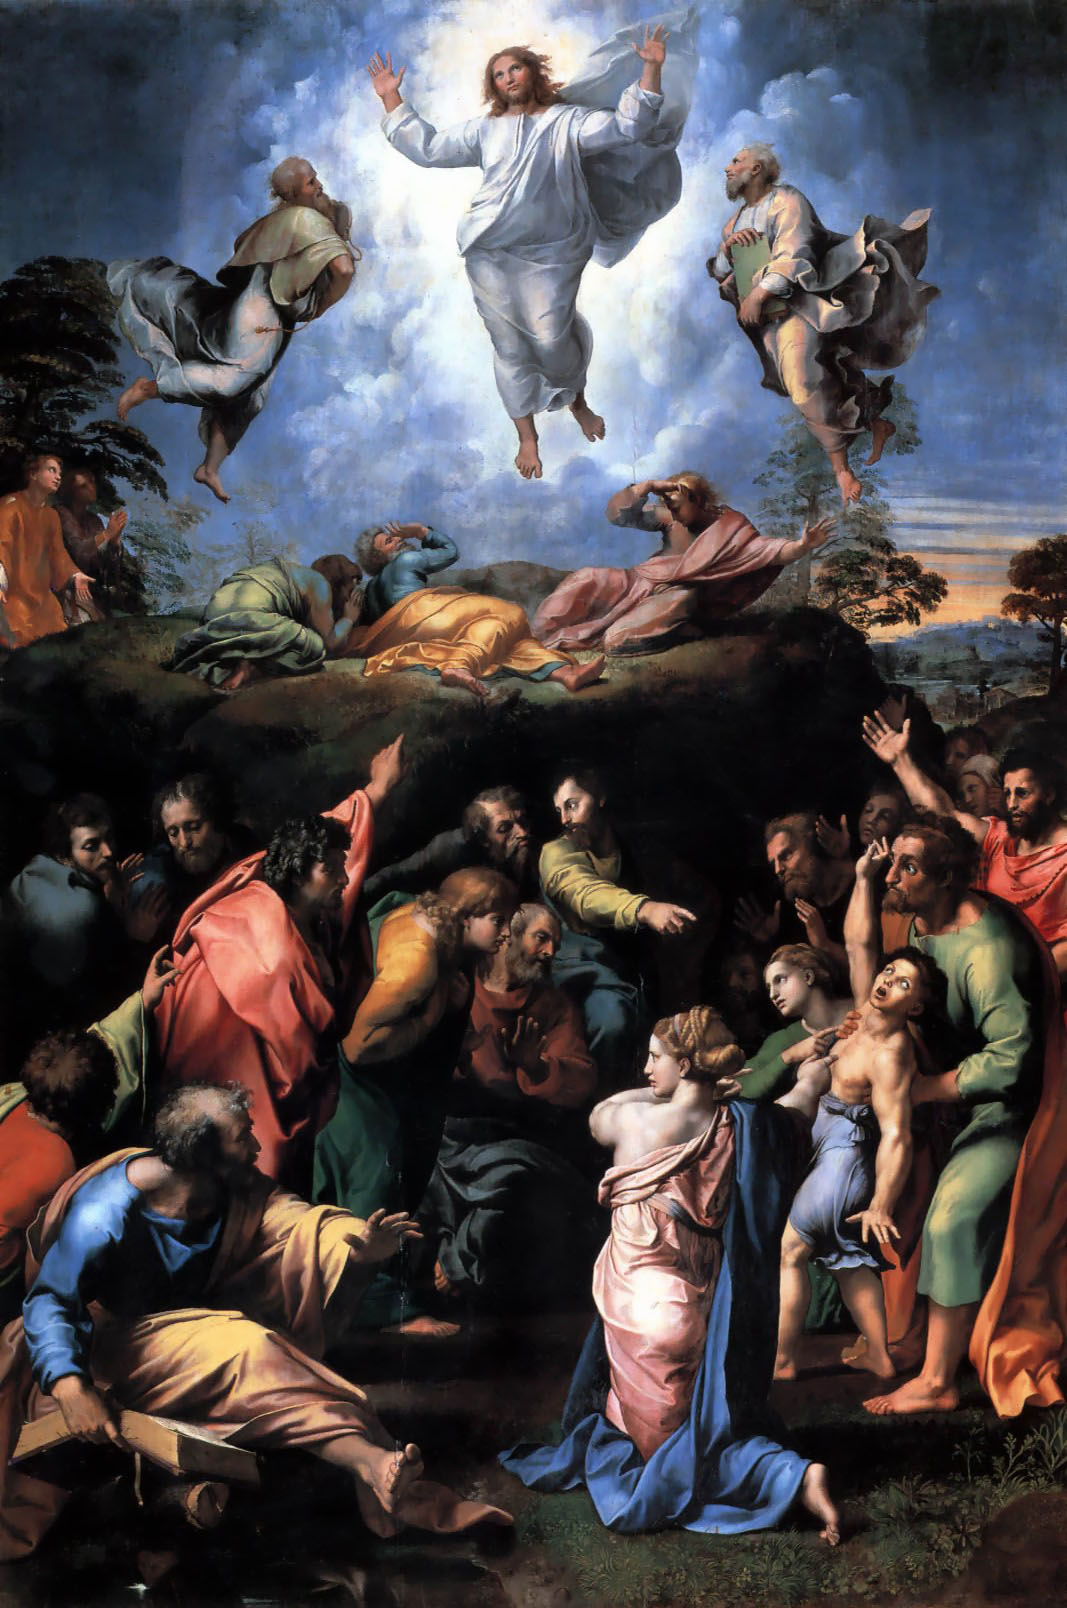
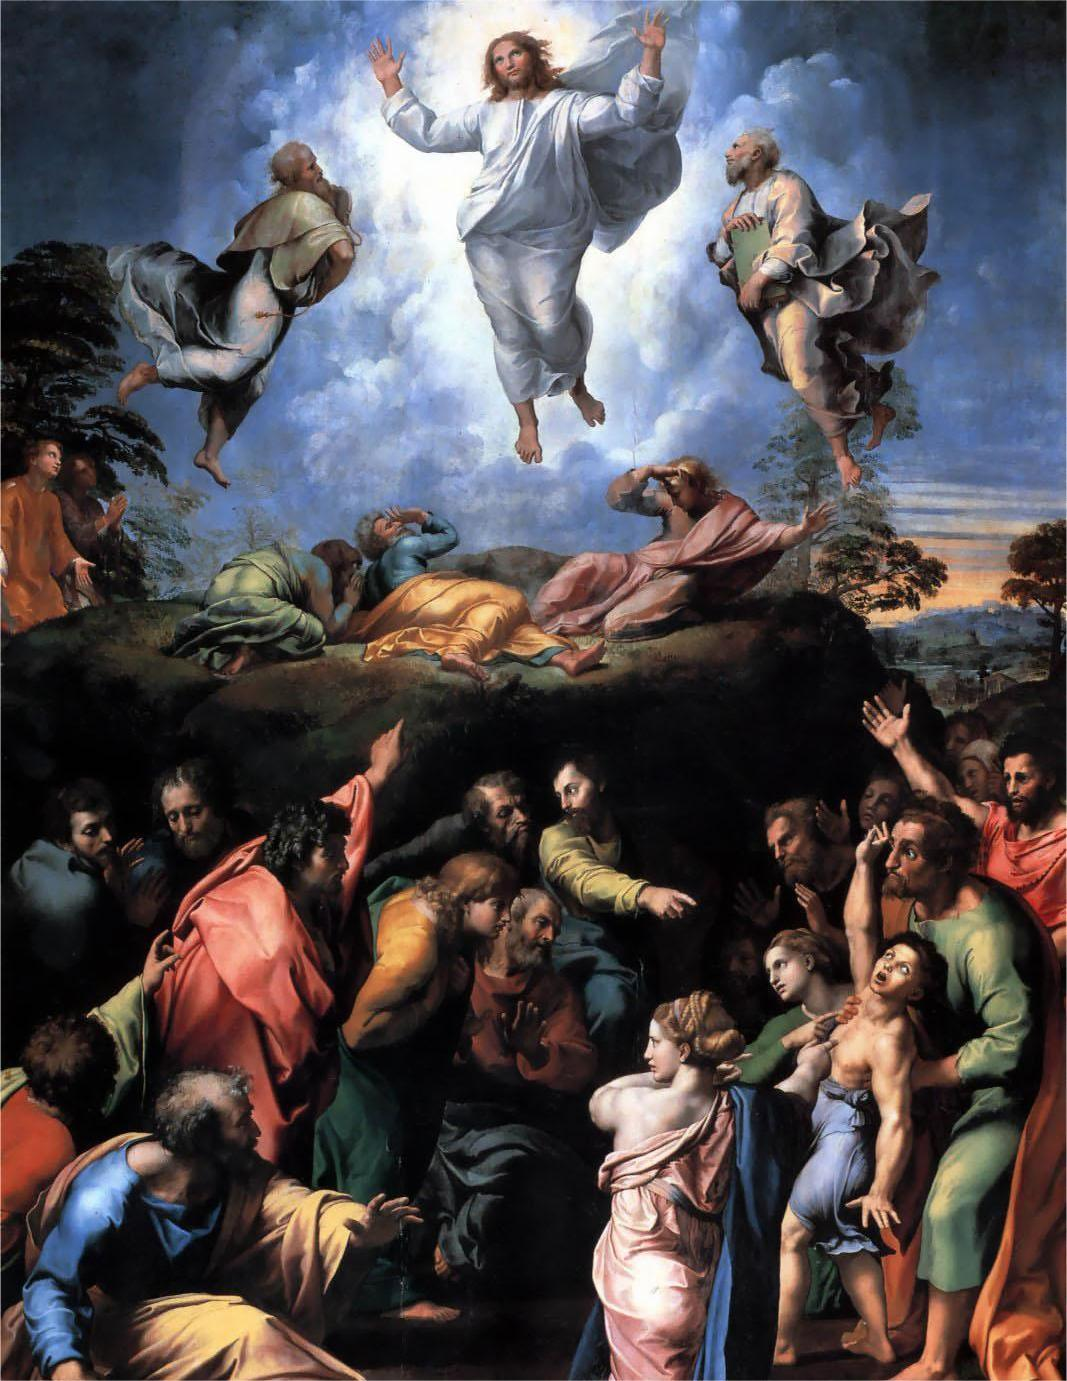
commit

diff --git a/public/artists.html b/public/artists.html
@@ -12,9 +12,10 @@
     <script src="script.js"defer></script>
 
     <style>
-        .artist1-works img{
+        .artist1-works img, .artist2-works img {
             display: flex;
             border-radius: 10px;
+            width: 100%;
         }
 
         .flex-container {
@@ -28,6 +29,7 @@
             padding: 0 0 3rem 0;
             margin: 5px;
             text-align: center;
+            align-items:center;
 
         }
 
@@ -81,7 +83,7 @@
         <section class="artist1">
             <div class="artist1-info" style="text-align: right;">
                 <img style="float: left; margin: 0 1.5rem 0.2rem 0;" src="../img/painting-frames/caravaggio-frame.png" alt="Caravaggio by Simon Vouet"/>
-                <h2 style="margin-top: 0; text-align: left; font-style: italic; font-size: 2.5rem;"> Michelangelo Merisi da Caravaggio </h2>
+                <h2 style="margin: 0 0 -0.8rem 0; text-align: left; font-style: italic; font-size: 2.4rem;"> Michelangelo Merisi da Caravaggio </h2>
                 <p>
                     Michelangelo Merisi da Caravaggio, or simply Caravaggio, was an Italian Painter born in Milan, Italy, on September 29, 1571 until 
                     passing later on July 18, 1610. As an artist, Caravaggio was known as a revolutionary 
@@ -103,18 +105,18 @@
             </div>
             
             <div class="artist1-works" style=" display: flex; flex-direction: column; max-width:1000px">
-                <h1 style="display: block;"> Famous Art Works Include... </h1>
+                <h1 style="font-style: italic; text-align: center;"> Famous Art Works Include... </h1>
                 <div class="flex-container">
-                    <div class="column" style=" align-items: center; ">
-                        <img src="../img/painting-no-frame/narcissus.png" style="width: 100%;"; alt="Narcissus"/> <h2> Narcissus </h2>
+                    <div class="column">
+                        <img src="../img/painting-no-frame/narcissus.png" alt="Narcissus"/> <h2> Narcissus </h2>
                         <p>(1597-1599)</p>
                     </div>
-                    <div class="column" style=" align-items: center; ">
-                        <img src="../img/painting-no-frame/bacchus.png"  style="width: 100%; " alt="Young Sick Bacchus"> <h2> Young Sick Bacchus </h2>
+                    <div class="column">
+                        <img src="../img/painting-no-frame/bacchus.png" alt="Young Sick Bacchus"> <h2> Young Sick Bacchus </h2>
                         <p>(1593-1594)</p>
                     </div>
                     <div class="column">
-                        <img src="../img/painting-no-frame/david.png"   style="width: 100%;"; alt="David with the head of Goliath"/> <h2> David with the head of Goliath </h2>
+                        <img src="../img/painting-no-frame/david.png"  alt="David with the head of Goliath"/> <h2> David with the head of Goliath </h2>
                         <p>(1609-1610)</p>
                     </div>
                 </div>
@@ -125,21 +127,44 @@
         <section class="artist">
             <div class="artist2-info" style="text-align: left;">
                 <img style="float: right; margin: 0 0 1rem 1.5rem;" src="../img/painting-frames/raphael-frame.png" style="width:426px"; alt="Artist 2 Picture"/>
-                <h2 style="margin-top: 0; text-align: right; font-style: italic; font-size: 2.5rem;"> Raffaelo Sanzio (Raphael) </h2>
+                <h2 style="margin: 0 0 -0.8rem 0; text-align: left; font-style: italic; font-size: 2.5rem;"> Raffaelo Sanzio (Raphael) </h2>
                 <p>
                     Lorem ipsum dolor sit amet consectetur adipiscing elit. Quisque faucibus ex sapien 
                     vitae pellentesque sem placerat. In id cursus mi pretium tellus duis convallis. Tempus 
                     leo eu aenean sed diam urna tempor. Pulvinar vivamus fringilla lacus nec metus 
                     bibendum egestas. Iaculis massa nisl malesuada lacinia integer nunc posuere. Ut 
                     hendrerit semper vel class aptent taciti sociosqu. Ad litora torquent per conubia 
+                    nostra inceptos himenaeos. Lorem ipsum dolor sit amet consectetur adipiscing elit. Quisque faucibus ex sapien 
+                    vitae pellentesque sem placerat. In id cursus mi pretium tellus duis convallis. Tempus 
+                    leo eu aenean sed diam urna tempor. Pulvinar vivamus fringilla lacus nec metus 
+                    bibendum egestas. Iaculis massa nisl malesuada lacinia integer nunc posuere. Ut 
+                    hendrerit semper vel class aptent taciti sociosqu. Ad litora torquent per conubia 
+                    nostra inceptos himenaeos. Lorem ipsum dolor sit amet consectetur adipiscing elit. Quisque faucibus ex sapien 
+                    vitae pellentesque sem placerat. In id cursus mi pretium tellus duis convallis. Tempus 
+                    leo eu aenean sed diam urna tempor. Pulvinar vivamus fringilla lacus nec metus 
+                    bibendum egestas. Iaculis massa nisl malesuada lacinia integer nunc posuere. Ut 
+                    hendrerit semper vel class aptent taciti sociosqu. Ad litora torquent per conubia 
+                    nostra inceptos himenaeos. Iaculis massa nisl malesuada lacinia integer nunc posuere. Ut 
+                    hendrerit semper vel class aptent taciti sociosqu. Ad litora torquent per conubia 
                     nostra inceptos himenaeos.
                 </p>
             </div>
-            <div class="artist2-works">
-                <h1> Famous Art Works Include... </h1>
-                <img src="../img/painting-no-frame/sistine-madonna.jpg" alt="Sistine Madonna Painting"/> <h2> Sistine Madonna </h2>
-                <img src="../img/painting-no-frame/transfiguration.jpg" alt="Transfiguration Painting"/> <h2> Transfiguration </h2>
-                <img src="../img/painting-no-frame/sistine-madonna.jpg" alt=""/> <h2> School of Athens </h2>
+            <div class="artist2-works" style=" display: flex; flex-direction: column; max-width:1000px">
+                <h1 style="font-style: italic; text-align: center;"> Famous Art Works Include... </h1>
+                <div class="flex-container">
+                    <div class="column">
+                        <img src="../img/painting-no-frame/sistine-madonna.jpg" alt="Sistine Madonna Painting"/> <h2> Sistine Madonna </h2>
+                    </div>
+                    <div class="column">
+                        <img src="../img/painting-no-frame/transfiguration.jpg" alt="Transfiguration Painting"/> <h2> The Transfiguration </h2>
+                    </div>
+                    <div class="column">
+                        <img src="../img/painting-no-frame/donna-velata.jpg" alt="La Donna Velata Painting"/> <h2> La Donna Velata </h2>
+                    </div>
+                </div>
+            </div>
+        </section>
+    </div>
     <footer>
         <div class="left-footer">
             <p> Nikki Magbanua: b2029nmmagbanua@pshs.edu.ph </p>
